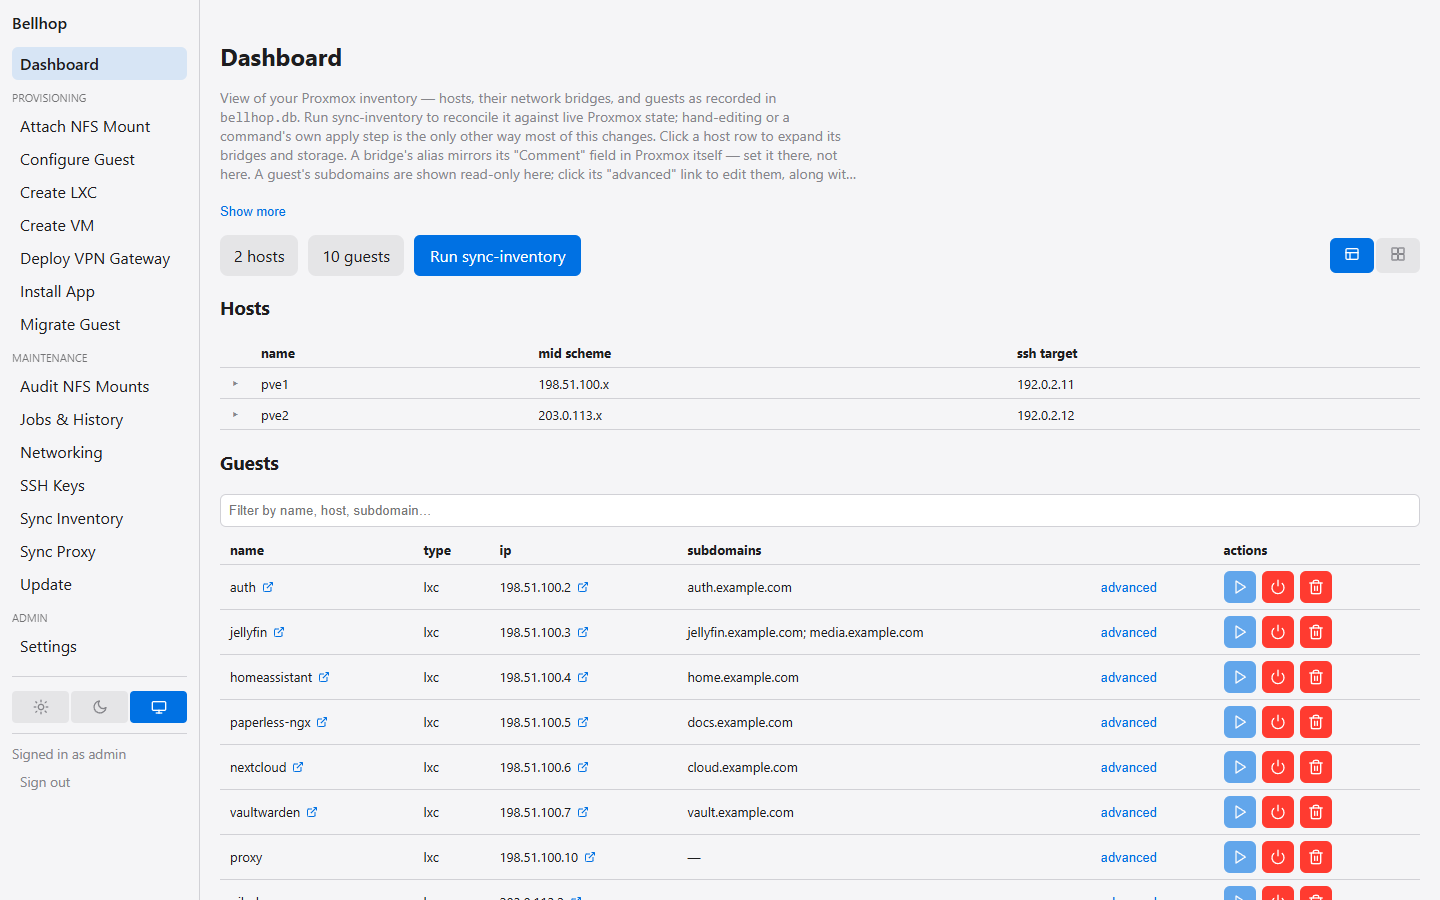
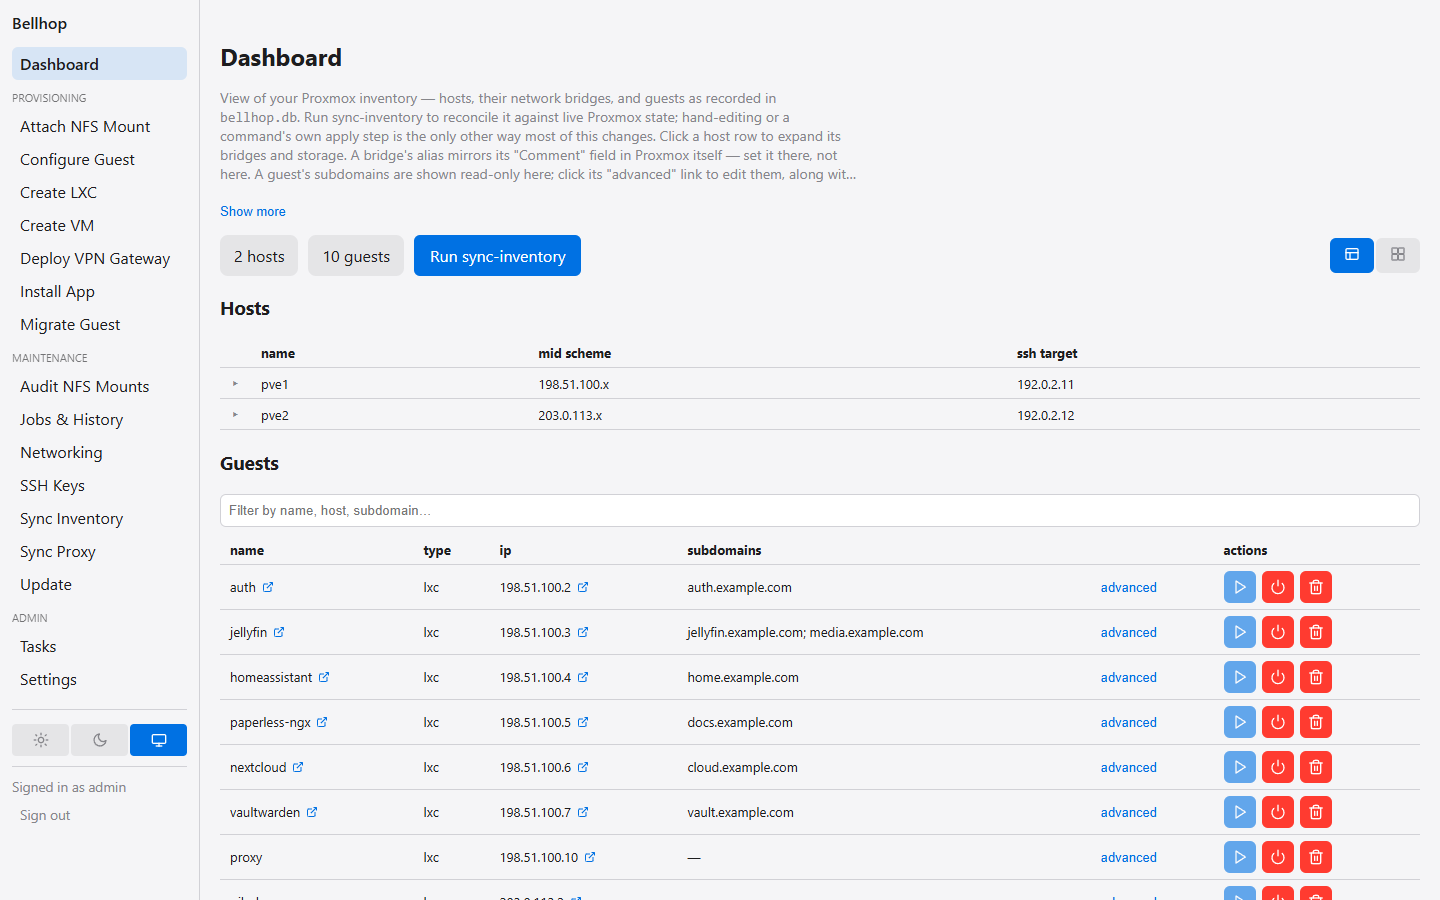
Mark #61 verification tasks complete
Regenerated docs/images (Update page badge; Tasks link in the Admin nav).
Verified in the demo instance at desktop width and 390px, light and dark.

Claude-Session: https://claude.ai/code/session_011ZaTNsQ9UrZEgma24LdKvh

Changed region(s): [[0.0, 0.7467, 0.1562, 0.9022], [0.0, 0.7156, 0.0625, 0.7778]]

diff --git a/specs/061-app-update-checks/tasks.md b/specs/061-app-update-checks/tasks.md
@@ -171,9 +171,9 @@ Paths are relative to the worktree root, `C:\Users\rcher\Dev\Bellhop-Worktrees\i
   - `README.md` main-commands table, if it lists maintenance commands, keeping the README at most 200 lines.
   - `CLAUDE.md`: an architecture bullet for the tasks framework, the check's tools.func mirroring, the tables, the re-check, and the unauthenticated-GitHub single-operator assumption.
   - `CONTRIBUTING.md` only if a restated convention changed.
-- [ ] T030 Run `npm run typecheck`, `npm test`, and `npm run web:build`, and fix any failures.
-- [ ] T031 Browser-verify `/update` and `/tasks` on the demo instance at desktop width and at a 640px or narrower viewport (no horizontal scroll, cards, light and dark themes). Regenerate affected `docs/images/` with `npm run docs:screenshots`, and inspect them for example-only values.
-- [ ] T032 Run the quickstart.md automated section and record manual real-infrastructure steps as unverified for the PR if they can't be run.
+- [x] T030 Run `npm run typecheck`, `npm test`, and `npm run web:build`, and fix any failures.
+- [x] T031 Browser-verify `/update` and `/tasks` on the demo instance at desktop width and at a 640px or narrower viewport (no horizontal scroll, cards, light and dark themes). Regenerate affected `docs/images/` with `npm run docs:screenshots`, and inspect them for example-only values.
+- [x] T032 Run the quickstart.md automated section and record manual real-infrastructure steps as unverified for the PR if they can't be run.
 
 ---
 
